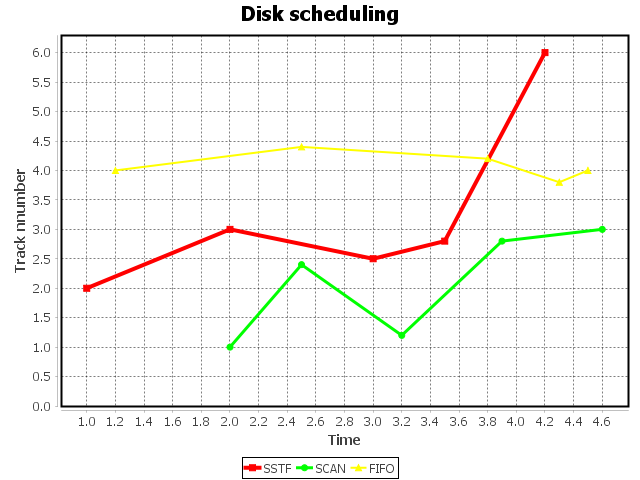
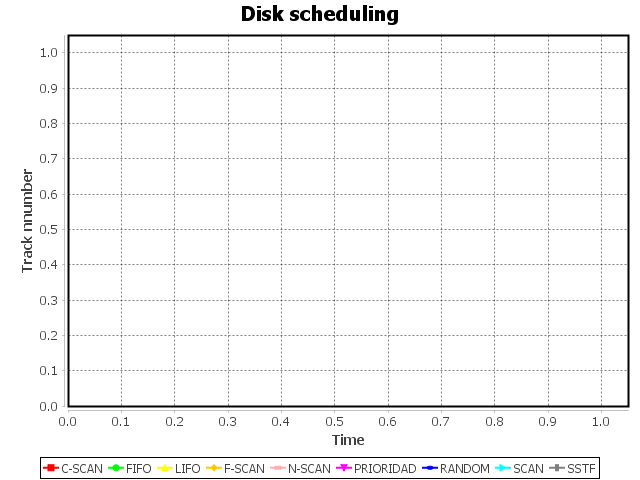
- Comparativa para todos los algoritmos

diff --git a/DISK_SCHEDULING/src/GUI/GraficoMultiline.java b/DISK_SCHEDULING/src/GUI/GraficoMultiline.java
@@ -5,11 +5,22 @@
  */
 package GUI;
 
+import SCHEDULING.CSCAN;
+import SCHEDULING.FIFO;
+import SCHEDULING.FSCAN;
+import SCHEDULING.LIFO;
+import SCHEDULING.NSCAN;
+import SCHEDULING.PRIORIDAD;
+import SCHEDULING.RANDOM;
+import SCHEDULING.SCAN;
+import SCHEDULING.SSTF;
+import UTIL.Control;
 import java.awt.BasicStroke;
 import java.awt.BorderLayout;
 import java.awt.Color;
 import java.io.File;
 import java.io.IOException;
+import java.util.LinkedList;
 import javax.swing.JFrame;
 import javax.swing.JPanel;
 import org.jfree.chart.ChartFactory;
@@ -70,33 +81,85 @@ public class GraficoMultiline extends javax.swing.JFrame {
 
 private XYDataset createDataset() {    // this method creates the data as time seris 
     XYSeriesCollection dataset = new XYSeriesCollection();
-    XYSeries series1 = new XYSeries("SSTF");
-    XYSeries series2 = new XYSeries("SCAN");
-    XYSeries series3 = new XYSeries("FIFO");
+    XYSeries series1 = new XYSeries("C-SCAN");
+    XYSeries series2 = new XYSeries("FIFO");
+    XYSeries series3 = new XYSeries("LIFO");
+    XYSeries series4 = new XYSeries("F-SCAN");
+    XYSeries series5 = new XYSeries("N-SCAN");
+    XYSeries series6 = new XYSeries("PRIORIDAD");
+    XYSeries series7 = new XYSeries("RANDOM");
+    XYSeries series8 = new XYSeries("SCAN");
+    XYSeries series9 = new XYSeries("SSTF");
     
-    series1.add(1.0, 2.0);
-    series1.add(2.0, 3.0);
-    series1.add(3.0, 2.5);
-    series1.add(3.5, 2.8);
-    series1.add(4.2, 6.0);
+    int tiempo = 0;
+        
+        Integer[] arrayCSCAN = Control.sstfTracks.toArray(new Integer[Control.sstfTracks.size()]);
+        Integer[] arrayFIFO = Control.fifoTracks.toArray(new Integer[Control.fifoTracks.size()]);
+        Integer[] arrayLIFO = Control.lifoTracks.toArray(new Integer[Control.lifoTracks.size()]);
+        Integer[] arrayFSCAN = Control.fscanTracks.toArray(new Integer[Control.fscanTracks.size()]);
+        Integer[] arrayNSCAN = Control.nscanTracks.toArray(new Integer[Control.nscanTracks.size()]);
+        Integer[] arrayPRI = Control.prioridadTracksEstadisticas.toArray(new Integer[Control.prioridadTracksEstadisticas.size()]);
+        Integer[] arrayRAM = Control.randomTracks.toArray(new Integer[Control.randomTracks.size()]);
+        Integer[] arraySCAN = Control.scanTracks.toArray(new Integer[Control.scanTracks.size()]);
+        Integer[] arraySSTF = Control.sstfTracks.toArray(new Integer[Control.sstfTracks.size()]);
+
+        for (Integer array1 : arrayCSCAN) {
+            series1.add(tiempo, array1);
+            tiempo = tiempo + 5;
+        }
+        
+        for (Integer array2 : arrayFIFO) {
+            series2.add(tiempo, array2);
+            tiempo = tiempo + 5;
+        }
+        
+        for (Integer array3 : arrayLIFO) {
+            series3.add(tiempo, array3);
+            tiempo = tiempo + 5;
+        }
+        
+        for (Integer array4 : arrayFSCAN) {
+            series4.add(tiempo, array4);
+            tiempo = tiempo + 5;
+        }
+        
+        for (Integer array5 : arrayNSCAN) {
+            series5.add(tiempo, array5);
+            tiempo = tiempo + 5;
+        }
+        
+        for (Integer array6 : arrayPRI) {
+            series6.add(tiempo, array6);
+            tiempo = tiempo + 5;
+        }
+        
+        for (Integer array7 : arrayRAM) {
+            series7.add(tiempo, array7);
+            tiempo = tiempo + 5;
+        }
+        
+        for (Integer array8 : arraySCAN) {
+            series8.add(tiempo, array8);
+            tiempo = tiempo + 5;
+        }
+        
+        for (Integer array9 : arraySSTF) {
+            series9.add(tiempo, array9);
+            tiempo = tiempo + 5;
+        }
+      
+        dataset.addSeries(series1);
+        dataset.addSeries(series2);
+        dataset.addSeries(series3);
+        dataset.addSeries(series4);
+        dataset.addSeries(series5);
+        dataset.addSeries(series6);
+        dataset.addSeries(series7);
+        dataset.addSeries(series8);
+        dataset.addSeries(series9);
+
+        return dataset;
     
-    series2.add(2.0, 1.0);
-    series2.add(2.5, 2.4);
-    series2.add(3.2, 1.2);
-    series2.add(3.9, 2.8);
-    series2.add(4.6, 3.0);
-    
-    series3.add(1.2, 4.0);
-    series3.add(2.5, 4.4);
-    series3.add(3.8, 4.2);
-    series3.add(4.3, 3.8);
-    series3.add(4.5, 4.0);
-    
-    dataset.addSeries(series1);
-    dataset.addSeries(series2);
-    dataset.addSeries(series3);
-    
-    return dataset;
 }
 
 private void customizeChart(JFreeChart chart) {   // here we make some customization
@@ -107,11 +170,23 @@ private void customizeChart(JFreeChart chart) {   // here we make some customiza
     renderer.setSeriesPaint(0, Color.RED);
     renderer.setSeriesPaint(1, Color.GREEN);
     renderer.setSeriesPaint(2, Color.YELLOW);
+    renderer.setSeriesPaint(3, Color.ORANGE);
+    renderer.setSeriesPaint(4, Color.PINK);
+    renderer.setSeriesPaint(5, Color.MAGENTA);
+    renderer.setSeriesPaint(6, Color.BLUE);
+    renderer.setSeriesPaint(7, Color.CYAN);
+    renderer.setSeriesPaint(8, Color.GRAY);
 
     // sets thickness for series (using strokes)
-    renderer.setSeriesStroke(0, new BasicStroke(4.0f));
-    renderer.setSeriesStroke(1, new BasicStroke(3.0f));
+    renderer.setSeriesStroke(0, new BasicStroke(2.0f));
+    renderer.setSeriesStroke(1, new BasicStroke(2.0f));
     renderer.setSeriesStroke(2, new BasicStroke(2.0f));
+    renderer.setSeriesStroke(3, new BasicStroke(2.0f));
+    renderer.setSeriesStroke(4, new BasicStroke(2.0f));
+    renderer.setSeriesStroke(5, new BasicStroke(2.0f));
+    renderer.setSeriesStroke(6, new BasicStroke(2.0f));
+    renderer.setSeriesStroke(7, new BasicStroke(2.0f));
+    renderer.setSeriesStroke(8, new BasicStroke(2.0f));
     
     // sets paint color for plot outlines
     plot.setOutlinePaint(Color.BLACK);
@@ -183,7 +258,43 @@ private void customizeChart(JFreeChart chart) {   // here we make some customiza
             java.util.logging.Logger.getLogger(GraficoMultiline.class.getName()).log(java.util.logging.Level.SEVERE, null, ex);
         }
         //</editor-fold>
-
+         
+               
+        
+        CSCAN cscan = new CSCAN();
+        cscan.start();
+        
+        Control.setCabezalActual(Control.getCabezalInicial());
+        FIFO fifo = new FIFO();
+        fifo.start();
+        
+        Control.setCabezalActual(Control.getCabezalInicial());
+        FSCAN fscan = new FSCAN();
+        fscan.start();
+        
+        Control.setCabezalActual(Control.getCabezalInicial());
+        LIFO lifo = new LIFO();
+        lifo.start();
+        
+        Control.setCabezalActual(Control.getCabezalInicial());
+        NSCAN nscan = new NSCAN();
+        nscan.start();
+        
+        Control.setCabezalActual(Control.getCabezalInicial());
+        PRIORIDAD prioridad = new PRIORIDAD();
+        prioridad.start();
+        
+        Control.setCabezalActual(Control.getCabezalInicial());
+        RANDOM random = new RANDOM();
+        random.start();
+        
+        Control.setCabezalActual(Control.getCabezalInicial());
+        SCAN scan = new SCAN();
+        scan.start();
+        
+        Control.setCabezalActual(Control.getCabezalInicial());
+        SSTF sstf = new SSTF();
+        sstf.start();
         /* Create and display the form */
         java.awt.EventQueue.invokeLater(new Runnable() {
             public void run() {

diff --git a/DISK_SCHEDULING/src/GUI/TablaComparativa.java b/DISK_SCHEDULING/src/GUI/TablaComparativa.java
@@ -293,7 +293,6 @@ public class TablaComparativa extends javax.swing.JFrame {
     }//GEN-LAST:event_menFileActionPerformed
 
     private void btnCorrerActionPerformed(java.awt.event.ActionEvent evt) {//GEN-FIRST:event_btnCorrerActionPerformed
-        // TODO add your handling code here:
         
         GraficoMultiline ventanaGraficoMulti = new GraficoMultiline();
         ventanaGraficoMulti.setVisible(true);
@@ -308,7 +307,7 @@ public class TablaComparativa extends javax.swing.JFrame {
                 + "Esto procesará los algoritmos seleccionados y mostrará la gráficas correspondientes a la \n"
                 + "comparación de los algoritmos, de igual forma desplegará en la tabla el orden en que se\n"
                 + "accesaron las pistas del disco y el número de pistas atravesadas, además se mostrarán\n" 
-                + "los promedios de búsqueda";
+                + "los promedios de búsqueda.";
             JOptionPane.showMessageDialog(null, ms);
     }//GEN-LAST:event_menAyudaActionPerformed
 
